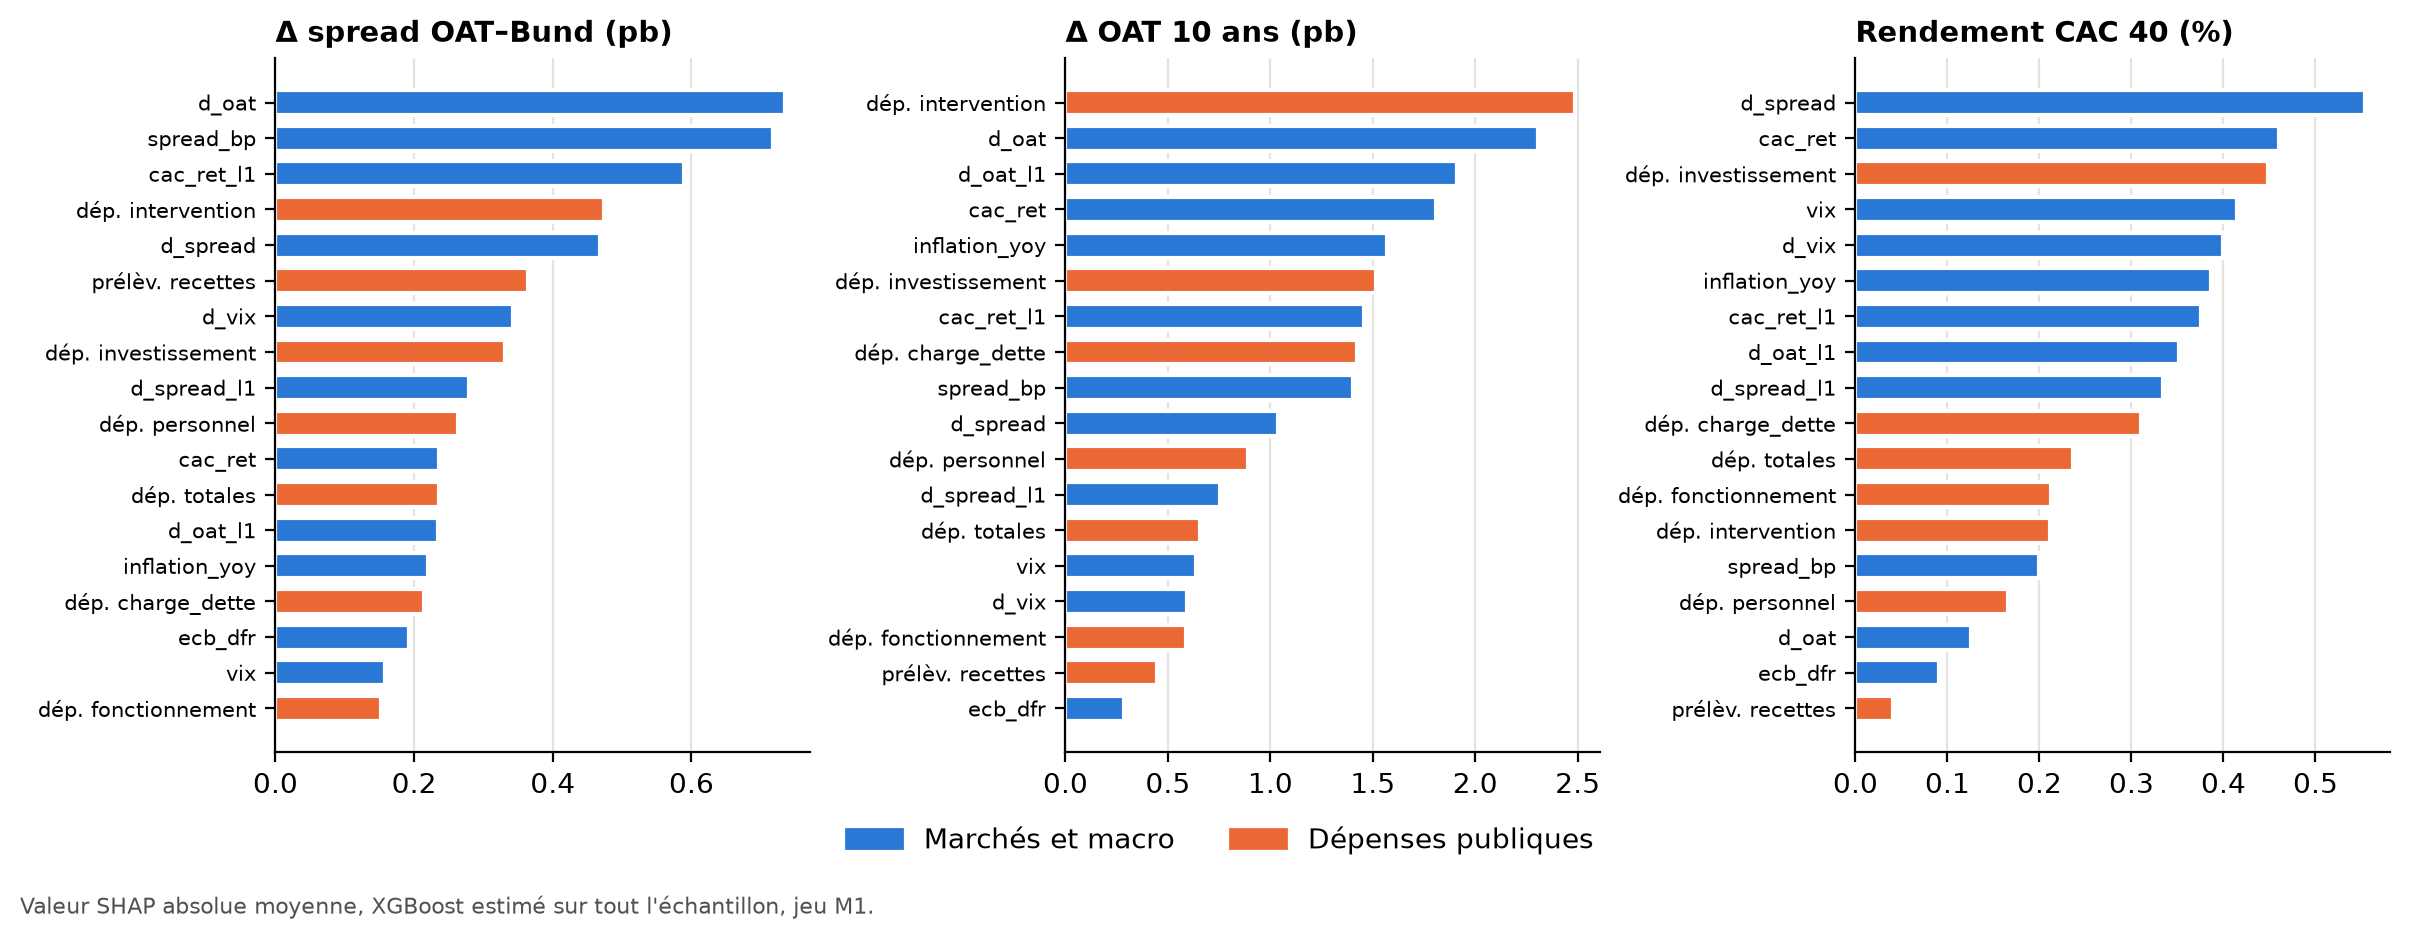
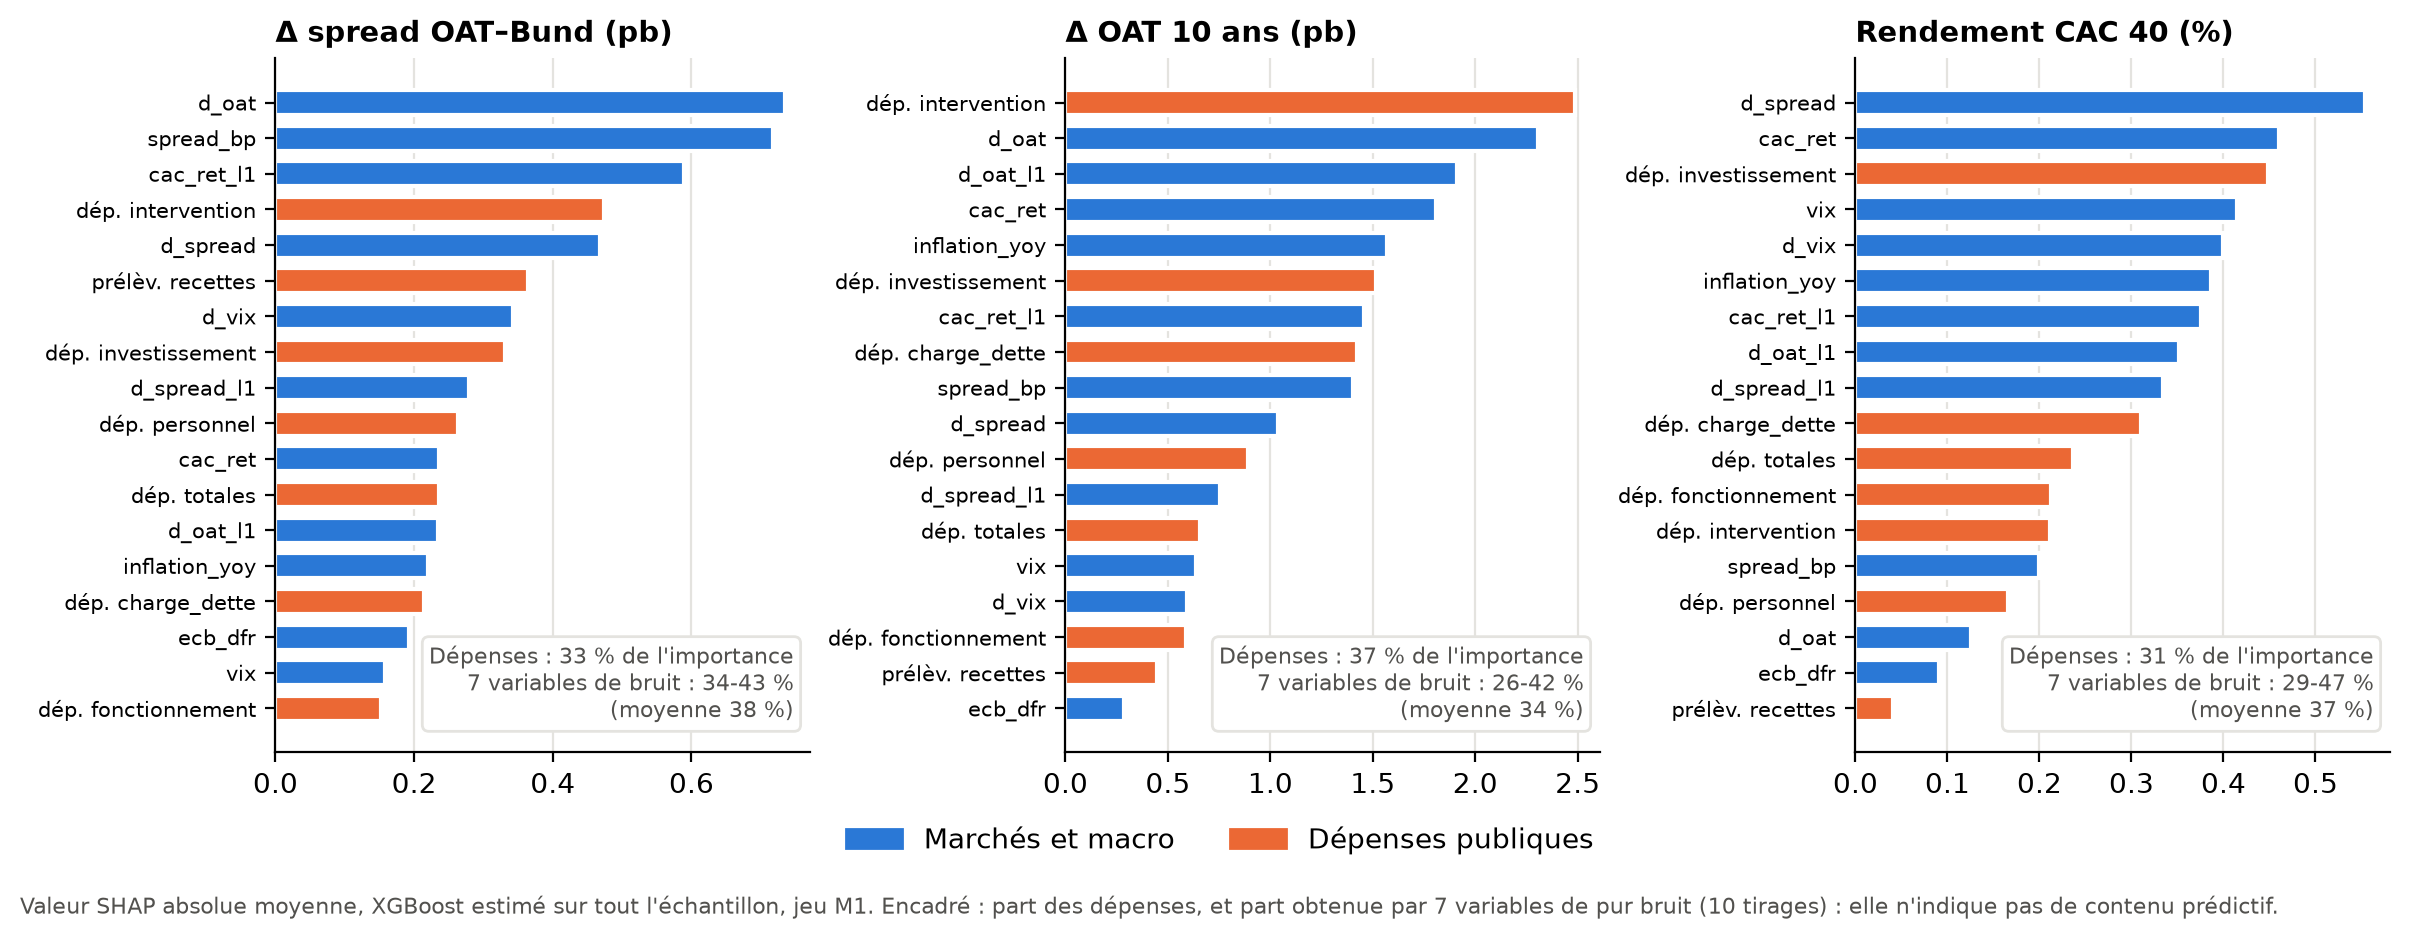
04 : référence de bruit sur la figure d'importance SHAP (figure 3.3)
Claude-Session: https://claude.ai/code/session_01FvHLKpyF4QTm7AqMeuLr1c

diff --git a/src/04_models.py b/src/04_models.py
@@ -246,7 +246,19 @@ def fig_relative_rmse(met: pd.DataFrame) -> None:
     plt.close(fig)
 
 
+def shap_noise_reference() -> pd.DataFrame | None:
+    """Part SHAP obtenue par 7 variables de pur bruit (10 tirages, src/15_diag_04.py shap_bruit), par cible."""
+    f = TAB / "diag_04" / "shap_bruit.csv"
+    if not f.exists():
+        print("Avertissement : diag_04/shap_bruit.csv absent, figure 3.3 sans référence de bruit "
+              "(lancer : python src/15_diag_04.py shap_bruit)")
+        return None
+    g = pd.read_csv(f).groupby("cible")["part_SHAP_bruit_%"]
+    return pd.DataFrame({"min": g.min(), "moyenne": g.mean(), "max": g.max()})
+
+
 def fig_shap(imp: pd.DataFrame) -> None:
+    ref = shap_noise_reference()
     fig, axes = plt.subplots(1, 3, figsize=(12, 4.2))
     for ax, (target, label) in zip(axes, TARGETS.items()):
         s = imp[target].sort_values()
@@ -257,10 +269,18 @@ def fig_shap(imp: pd.DataFrame) -> None:
                             .replace("_ytd_gap", "") for c in s.index], fontsize=7.5)
         ax.set_title(label)
         ax.grid(axis="y", visible=False)
+        part = imp.loc[SPENDING, target].sum() / imp[target].sum() * 100
+        txt = f"Dépenses : {part:.0f} % de l'importance"
+        if ref is not None:
+            r = ref.loc[target]
+            txt += f"\n7 variables de bruit : {r['min']:.0f}-{r['max']:.0f} %\n(moyenne {r['moyenne']:.0f} %)"
+        ax.text(0.97, 0.04, txt, transform=ax.transAxes, ha="right", va="bottom", fontsize=8, color=INK2,
+                bbox=dict(facecolor="white", edgecolor=GRID, boxstyle="round,pad=0.3"))
     handles = [plt.Rectangle((0, 0), 1, 1, color=BLUE), plt.Rectangle((0, 0), 1, 1, color=ORANGE)]
     fig.legend(handles, ["Marchés et macro", "Dépenses publiques"], loc="lower center", ncol=2,
                bbox_to_anchor=(0.5, -0.06))
-    fig.text(0, -0.1, "Valeur SHAP absolue moyenne, XGBoost estimé sur tout l'échantillon, jeu M1.",
+    fig.text(0, -0.1, "Valeur SHAP absolue moyenne, XGBoost estimé sur tout l'échantillon, jeu M1. Encadré : part des dépenses, "
+             "et part obtenue par 7 variables de pur bruit (10 tirages) : elle n'indique pas de contenu prédictif.",
              fontsize=8, color=INK2)
     fig.tight_layout()
     fig.savefig(FIG / "fig3_3_importance_shap.png")

diff --git a/etapes/06_figure_shap_bruit.md b/etapes/06_figure_shap_bruit.md
@@ -1,5 +1,7 @@
 # Étape 06 — Référence de bruit sur la figure d'importance SHAP (constat 4)
 
+**Statut : ✅ fait.**
+
 **Objet** : la part SHAP des dépenses (31-37 %) n'est pas un signe d'information : 7 variables de bruit font autant. `15_diag_04.py shap_bruit` écrit déjà `diag_04/shap_bruit.csv` ; il reste à porter la référence sur la figure 3.3 et à la rendre traçable.
 
 **Dépend de** : 04 (résumé validé), 05.
@@ -10,10 +12,15 @@
 3. Régénérer `fig3_3_importance_shap.png` en relançant seulement la partie figures (fonction dédiée `python src/04_models.py --figures` qui relit les CSV, sans réestimer les modèles).
 
 ## Validation
-- [ ] La figure s'ouvre et affiche la référence (inspection visuelle).
-- [ ] `models_shap_importance.csv` **identique** (`diff`).
-- [ ] `--figures` s'exécute en < 30 s sans réestimer les modèles.
-- [ ] Les nombres de la bande = min/max de `shap_bruit.csv` (assert dans le script).
+- [x] La figure s'ouvre et affiche la référence (inspection visuelle).
+- [x] `models_shap_importance.csv` **identique** (`diff`).
+- [x] `--figures` s'exécute en < 30 s sans réestimer les modèles.
+- [x] Les nombres de la bande = min/max de `shap_bruit.csv` (assert dans le script).
 
 ## Commit
 `04 : référence de bruit sur la figure d'importance SHAP ; option --figures`
+
+## Résultat (29/09)
+- `fig_shap` lit `diag_04/shap_bruit.csv` (fonction `shap_noise_reference`) et affiche dans chaque panneau la part des dépenses (33 / 37 / 31 %) et la part de 7 variables de bruit : étendue 34-43 % (spread), 26-42 % (OAT), 29-47 % (CAC 40), moyennes 38 / 34 / 37 %. Sans le fichier : avertissement, figure sans référence.
+- Pas d'option `--figures` séparée : `python src/04_models.py --from-saved` (étape 05) régénère déjà les figures en 5 s sans réestimer.
+- `models_shap_importance.csv` et tous les CSV : `diff` = aucune différence ; bornes de l'encadré = min/max du CSV (vérifié par script).

diff --git a/etapes/README.md b/etapes/README.md
@@ -23,7 +23,7 @@ Environnement : `. .venv/bin/activate` (étape 00).
 | 03 ✅ | `03_audit_walk_forward_06.md` | `walk_forward` de 06 en mois ; cibles à horizon h | — |
 | 04 ✅ | `04_diagnostics_15_relance.md` | Relancer les diagnostics de `15_diag_04` qui dépendent de Ridge + résumé | ~40 min |
 | 05 ✅ | `05_references_et_bh_04.md` | Deux références (moyenne, zéro) + BH sur les tests de 04 | 5 min |
-| 06 | `06_figure_shap_bruit.md` | Référence de bruit sur la figure 3.3 | 1 min |
+| 06 ✅ | `06_figure_shap_bruit.md` | Référence de bruit sur la figure 3.3 | 1 min |
 | 07 | `07_permutation_oos.md` | Importance par permutation hors échantillon | ~5 min |
 | 08 | `08_table_hypotheses.md` | Tableau H1-H4 généré par script | — |
 | 09 | `09_parametrer_decalage.md` | Décalage budgétaire unique et paramétrable (02, 05, 04) | — |
